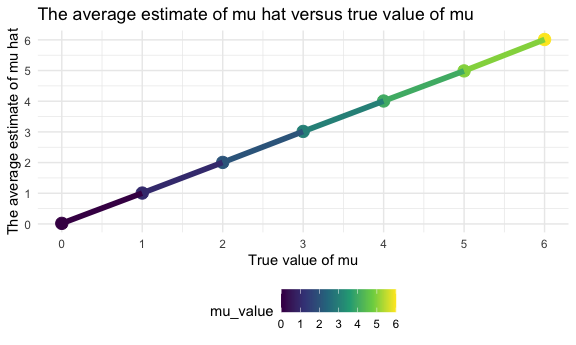
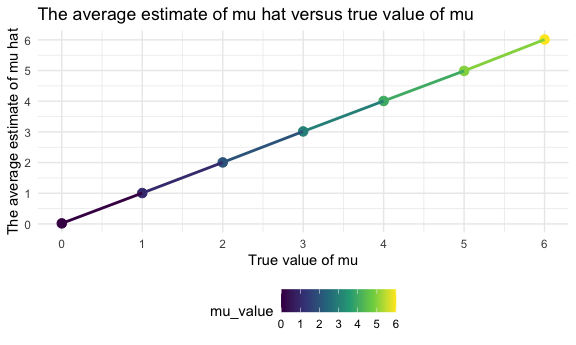
fix some bugs

Changed region(s): [[0.0938, 0.3188, 0.625, 0.6667], [0.7188, 0.087, 0.9688, 0.2609], [0.625, 0.2609, 0.7188, 0.3188]]

diff --git a/hw5_dg3187.md b/hw5_dg3187.md
@@ -427,7 +427,7 @@ t_esti_pvalue = function(n = 30, mu, sigma = 5) { #default sample size and sd
   
   sim_data %>%
     summarize(
-      t_test = t.test(x, mu = mu, conf.level = 0.95) %>% 
+      t_test = t.test(x, mu = 0, conf.level = 0.95) %>% 
         broom::tidy() %>% 
         select(p.value, estimate)
   )
@@ -465,6 +465,7 @@ sim_results_0
 
 ``` r
 set.seed(100)
+
 results_df = 
   tibble(mu_value = c(0,1,2,3,4,5,6)) %>% 
   mutate(
@@ -505,9 +506,9 @@ plot_1 =
   results_df %>%
   group_by(mu_value) %>% 
   filter(p_value < 0.05) %>% 
-  count() %>% 
+  summarize(n_rej = n()) %>% 
   mutate(
-    proportion = n / 5000
+    proportion = n_rej / 5000
   ) %>% 
   ggplot(aes(x = mu_value, y = proportion, color = mu_value)) +
   geom_point(size = 4)+
@@ -519,7 +520,11 @@ plot_1 =
   scale_x_continuous(
     breaks = c(0,1,2,3,4,5,6), 
     limits = c(0,6)) 
+```
 
+    ## `summarise()` ungrouping output (override with `.groups` argument)
+
+``` r
 plot_1
 ```
 
@@ -538,8 +543,8 @@ plot_2 =
     average_estimate = mean(mu_hat)
   ) %>% 
   ggplot(aes(x = mu_value, y = average_estimate, color = mu_value)) +
-  geom_point(size = 4)+
-  geom_line(size = 2) +
+  geom_point(size = 3)+
+  geom_line(size = 1) +
   labs(
     title = "The average estimate of mu hat versus true value of mu",
     x = "True value of mu",
@@ -572,8 +577,8 @@ plot_3 =
     average_estimate = mean(mu_hat)
   ) %>% 
   ggplot(aes(x = mu_value, y = average_estimate, color = mu_value)) +
-  geom_point(size = 4)+
-  geom_line(size = 2) +
+  geom_point(size = 3)+
+  geom_line(size = 1) +
   geom_line(aes(x = mu_value,y = mu_value,), color = "red", size = 1) +
   labs(
     title = "The average estimate of mu hat that reject the null versus the true value of mu",
